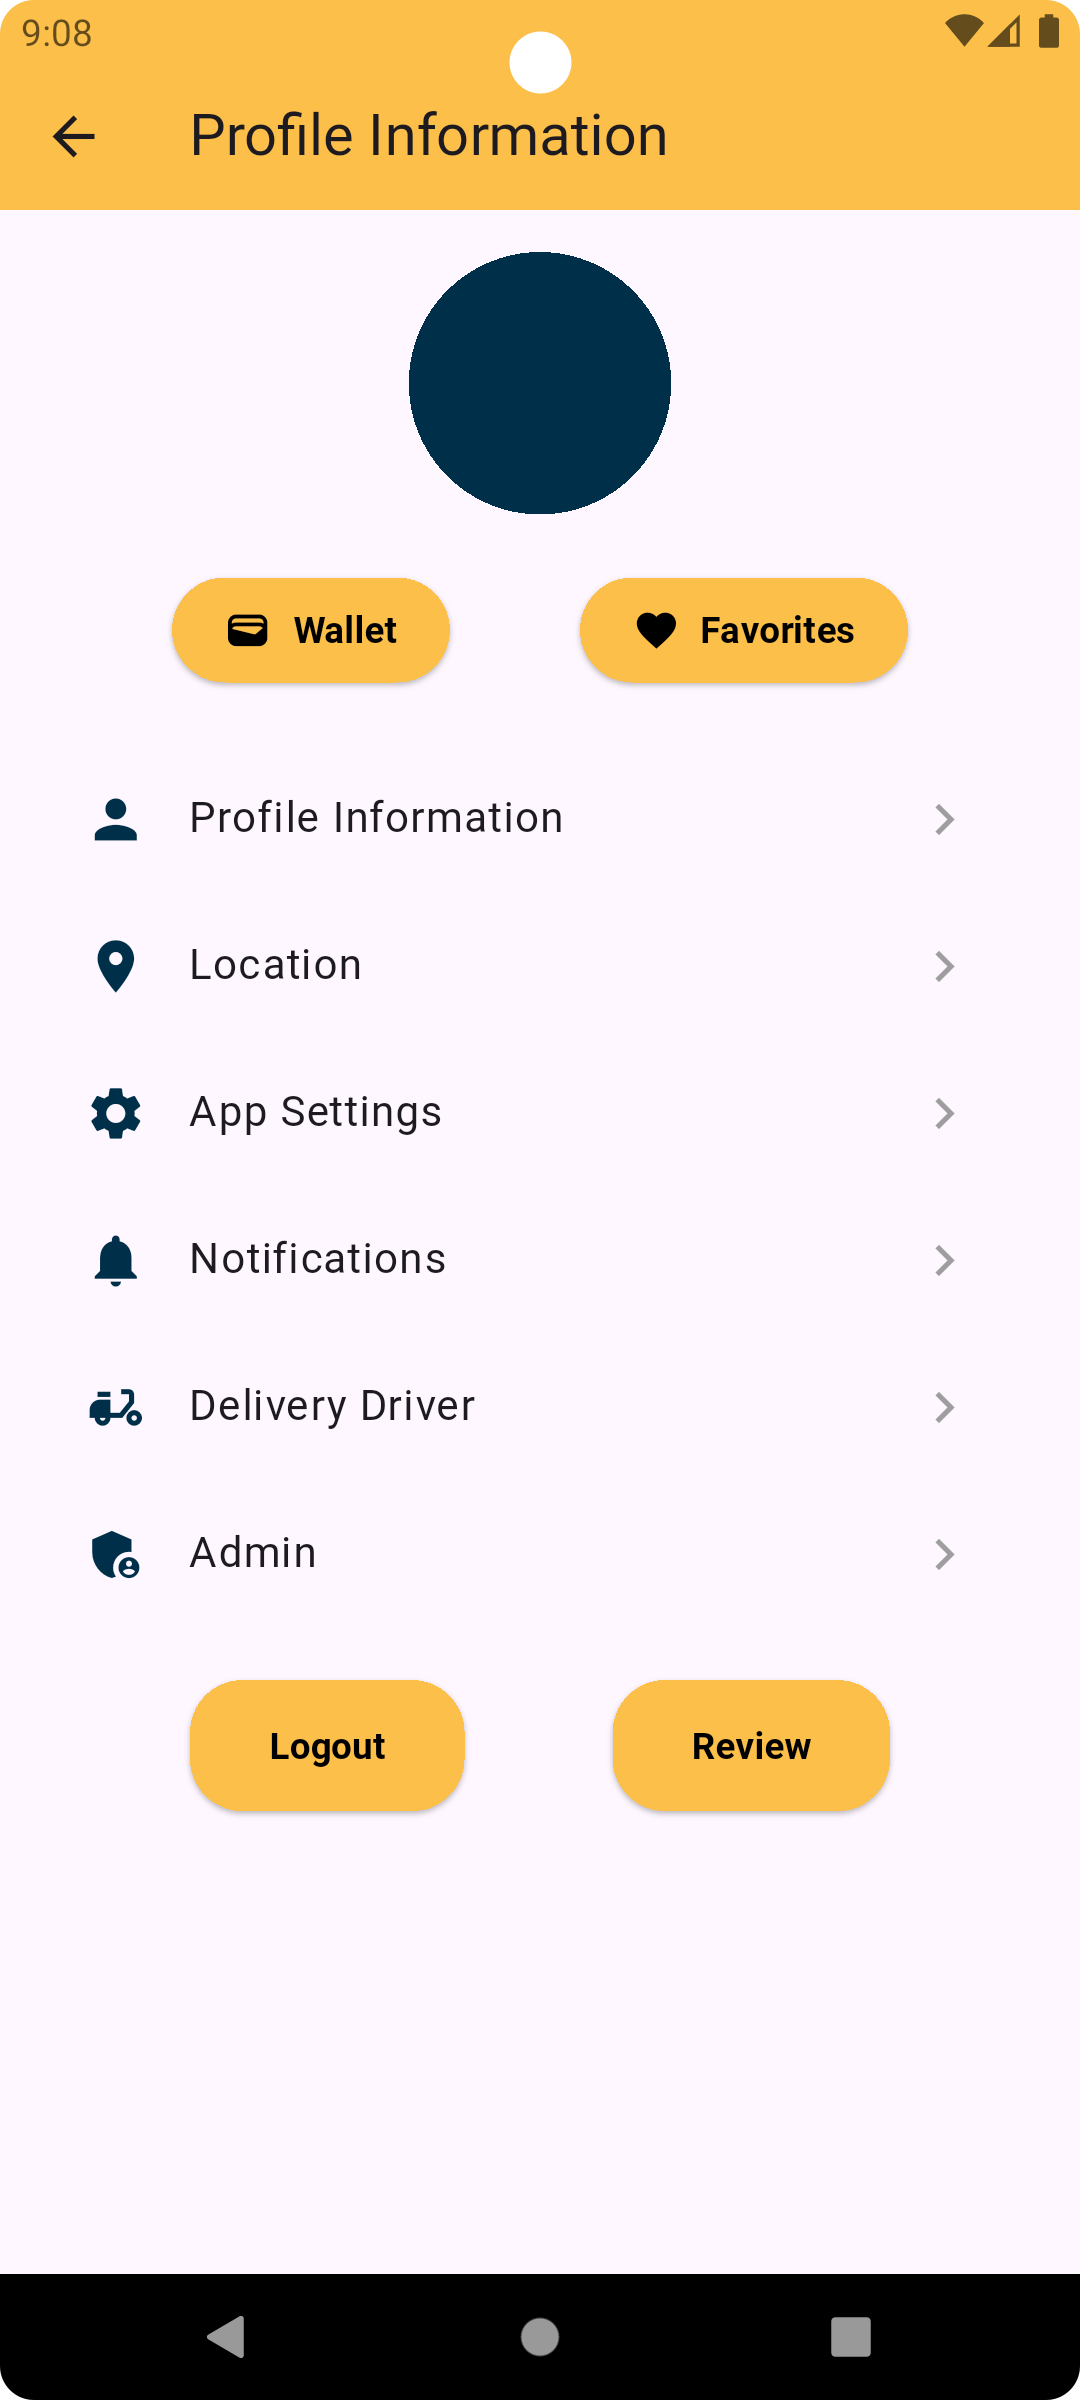
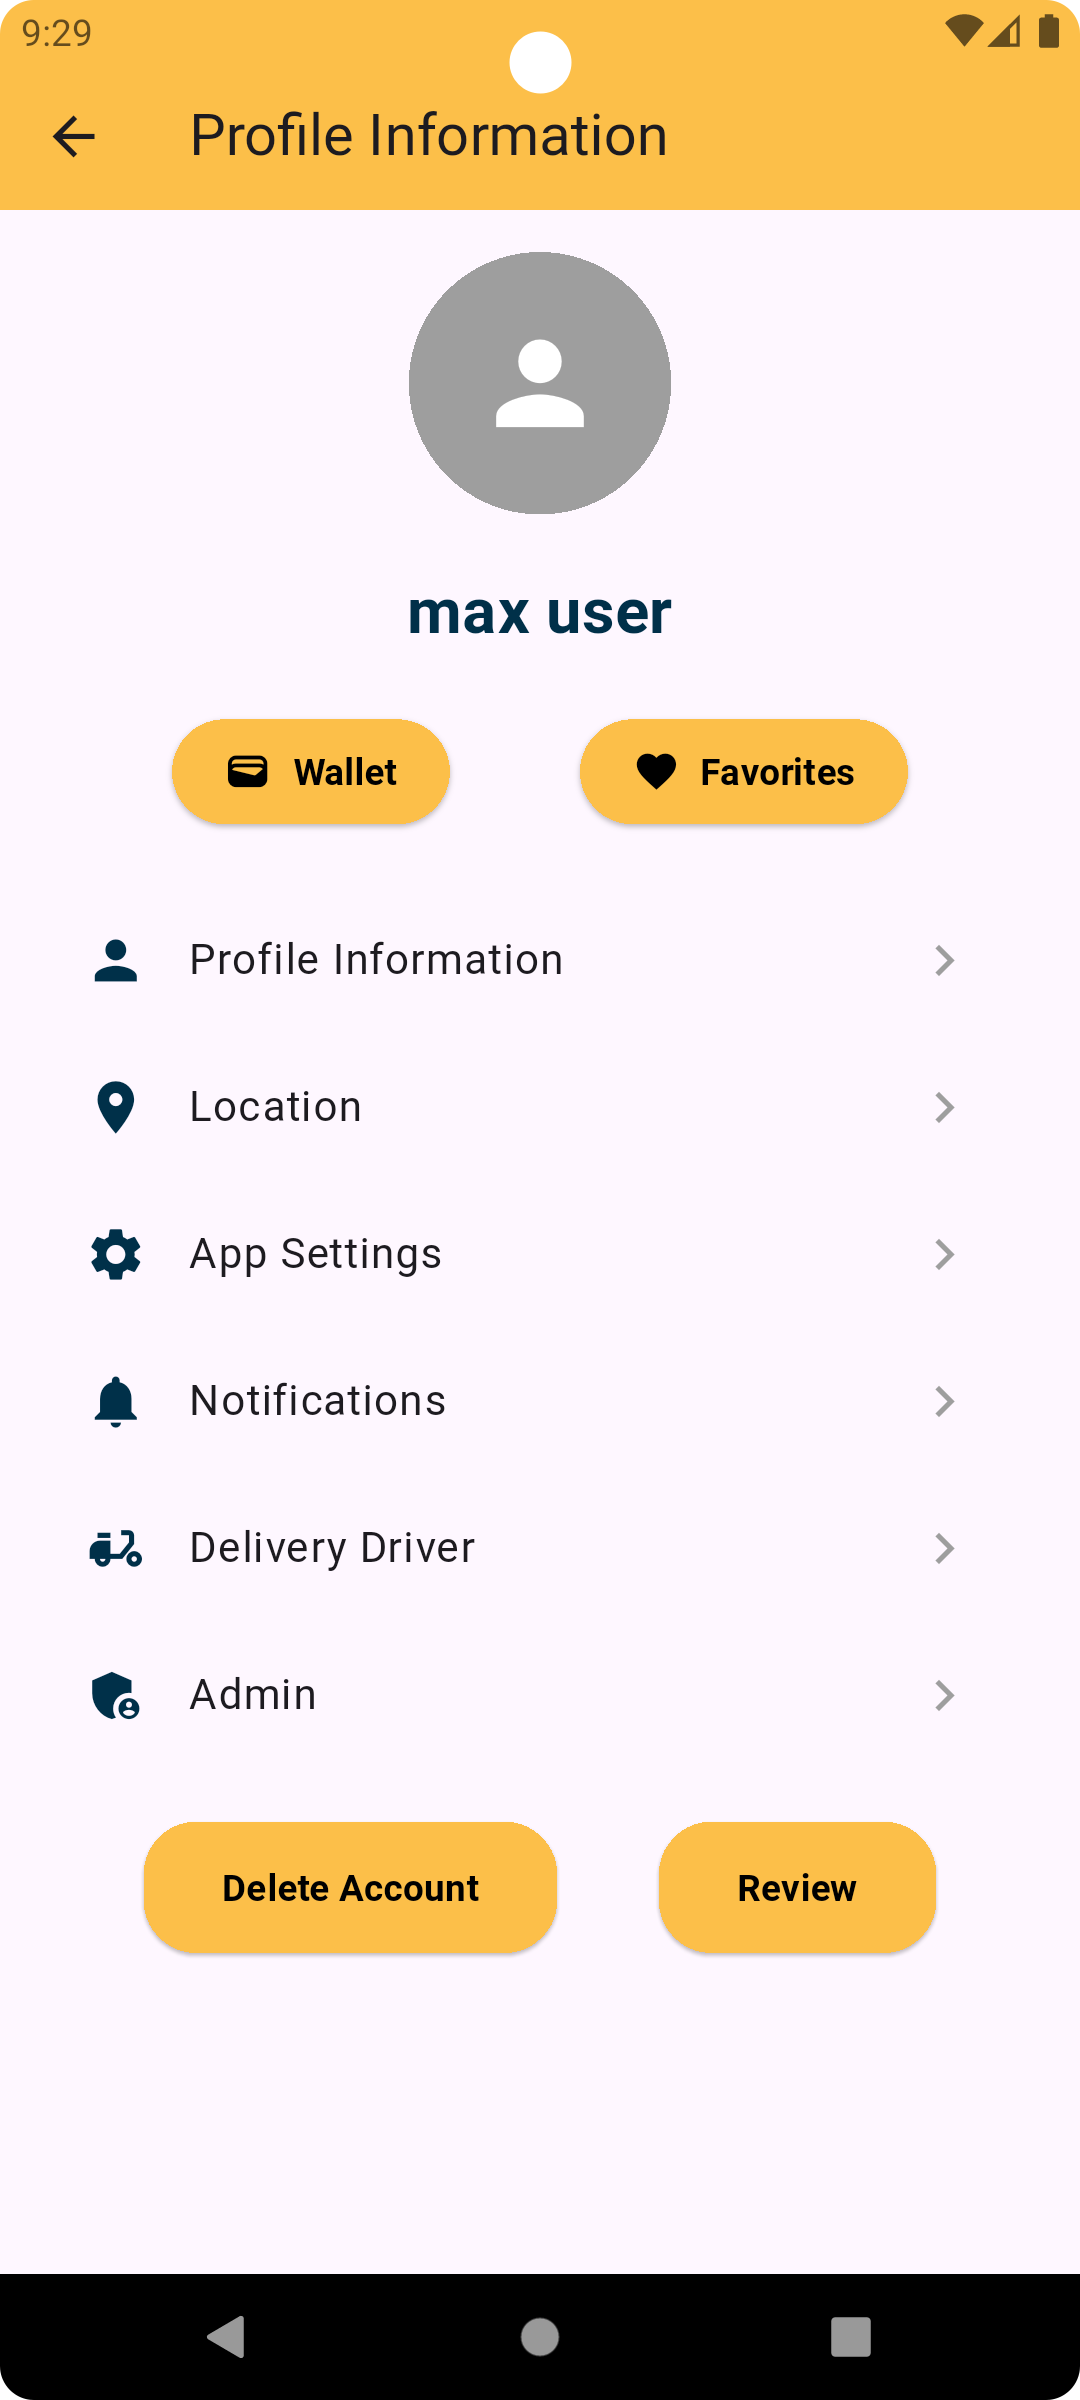
Method for update password and adress

diff --git a/lib/userprofile_screen.dart b/lib/userprofile_screen.dart
@@ -5,10 +5,6 @@ import 'package:firebase_database/firebase_database.dart';
 class ProfileScreen extends StatelessWidget {
   const ProfileScreen({Key? key}) : super(key: key);
 
-  void _deleteaccount(BuildContext context) async {
-
-  }
-
   Future<String?> getUserName(String userId) async {
     try {
       DatabaseReference ref = FirebaseDatabase.instance.ref("users/$userId/name");
@@ -19,6 +15,31 @@ class ProfileScreen extends StatelessWidget {
       return null;
     }
   }
+
+  Future<void> updatePassword(BuildContext context, String newPassword) async {
+    try {
+      User? user = FirebaseAuth.instance.currentUser;
+      if (user != null) {
+        await user.updatePassword(newPassword);
+        ScaffoldMessenger.of(context).showSnackBar(
+          SnackBar(content: Text('Password updated successfully')),
+        );
+      }
+    } catch (e) {
+      ScaffoldMessenger.of(context).showSnackBar(
+        SnackBar(content: Text('Error updating password: $e')),
+      );
+    }
+  }
+  Future<void> updateAddress(String userId, String address) async {
+    try {
+      DatabaseReference ref = FirebaseDatabase.instance.ref("users/$userId/address");
+      await ref.set(address);
+    } catch (e) {
+      print("Error updating address: $e");
+    }
+  }
+
 
   @override
   Widget build(BuildContext context) {
@@ -114,17 +135,18 @@ class ProfileScreen extends StatelessWidget {
             _buildProfileItem(context, Icons.person, 'Profile Information'),
             _buildProfileItem(context, Icons.location_on, 'Location'),
             _buildProfileItem(context, Icons.settings, 'App Settings'),
-            _buildProfileItem(context, Icons.notifications, 'Notifications'),
             _buildProfileItem(context, Icons.delivery_dining, 'Delivery Driver'),
             _buildProfileItem(context, Icons.admin_panel_settings, 'Admin'),
-            const SizedBox(height: 20),
+            const SizedBox(height: 70),
 
             Row(
               mainAxisAlignment: MainAxisAlignment.spaceEvenly,
               children: [
                 _buildBottomButton(
                   label: 'Delete Account',
-                  onPressed: () => _deleteaccount(context),
+                  onPressed: () {
+                    print('Delete Account button pressed');
+                  },
                   color: hangryYellow,
                 ),
                 _buildBottomButton(

diff --git a/lib/user_screen.dart b/lib/user_screen.dart
@@ -1,6 +1,6 @@
 import 'package:flutter/material.dart';
 import 'package:firebase_auth/firebase_auth.dart';
-import 'profile_screen.dart';
+import 'userprofile_screen.dart';
 
 class UserScreen extends StatefulWidget {
   const UserScreen({Key? key}) : super(key: key);
